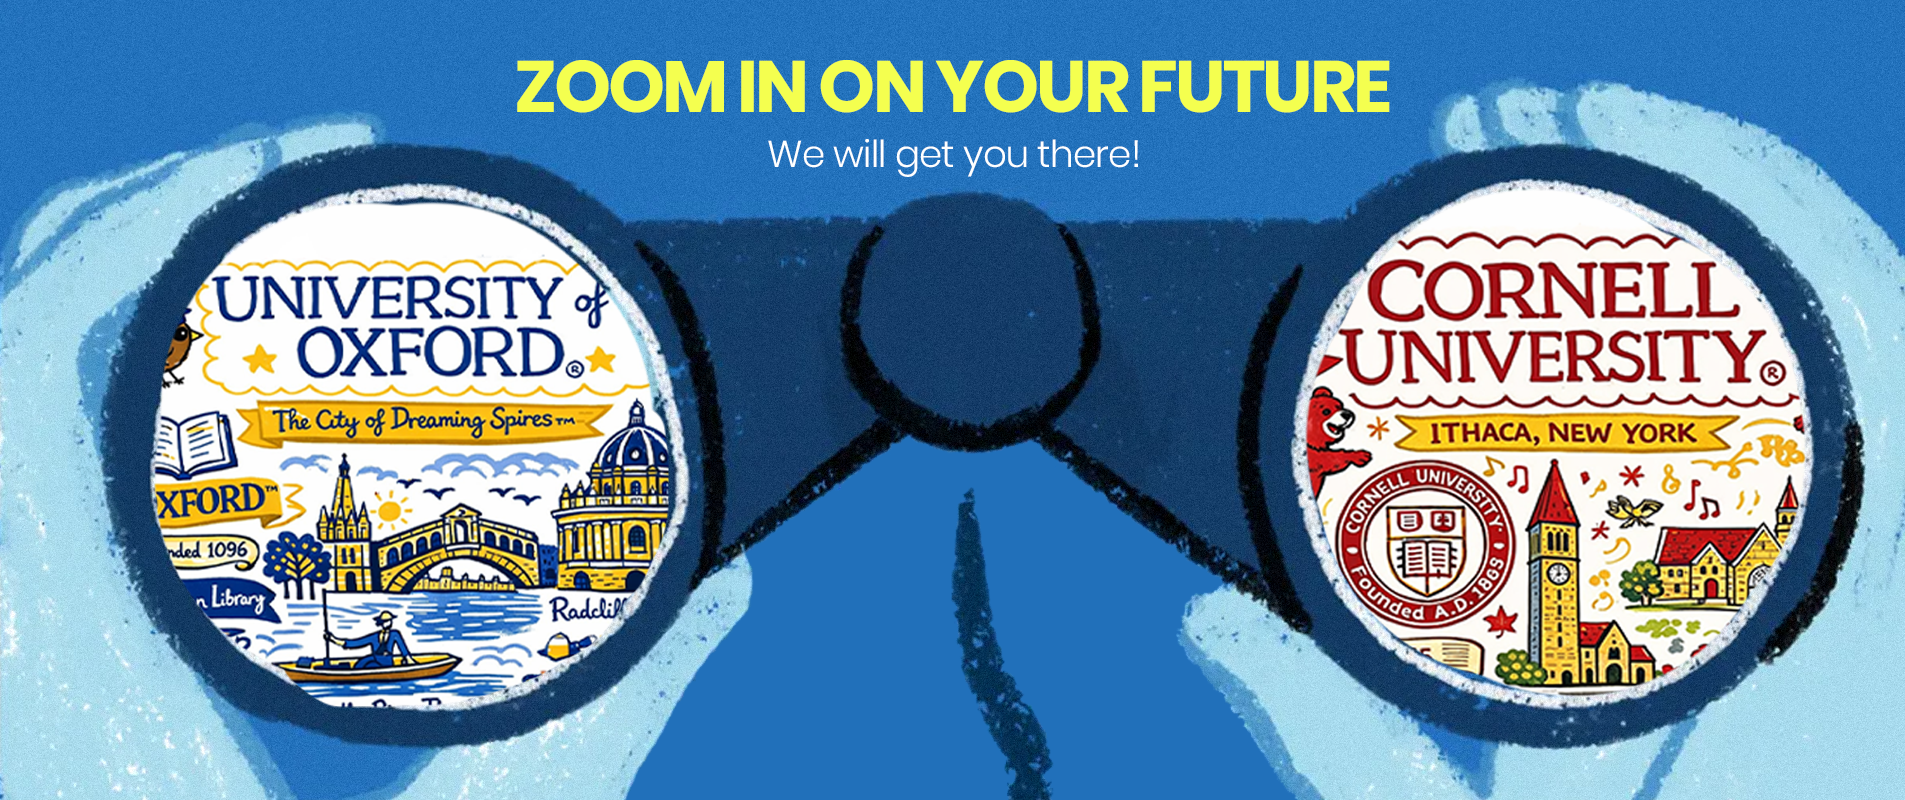
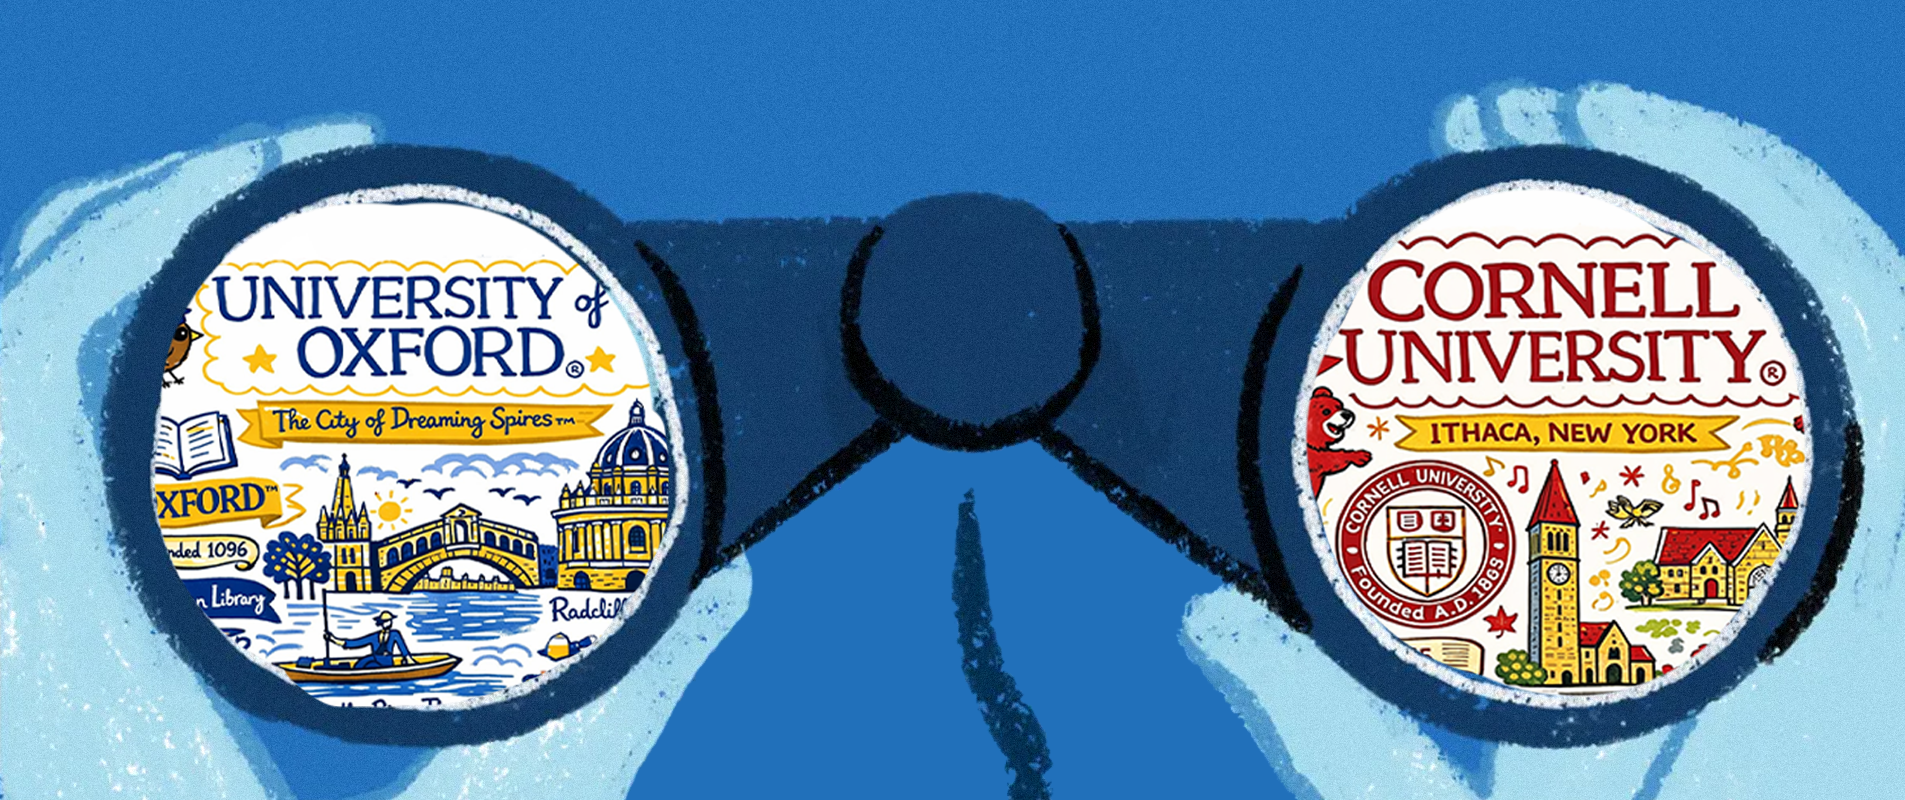
added case study first image

Changed region(s): [[0.2478, 0.0625, 0.7433, 0.2188]]

diff --git a/components/service/case-studies/HeroSection.tsx b/components/service/case-studies/HeroSection.tsx
@@ -5,25 +5,32 @@ const HeroSection = () => {
         <div
             className="
                 relative
-                pb-24
-                md:pb-0
-                bg-[#041938]
+                w-full
+                h-[calc(100vh-80px)]
+                sm:h-[calc(100vh-80px)]
+                md:h-[calc(100vh-96px)]
                 mt-20
                 md:mt-24
-                min-h-[700px]
-                sm:min-h-[750px]
-                md:min-h-[800px]
                 flex flex-col
                 items-center
                 overflow-hidden
                 bg-[url('/case-study-sm.png')]
-                lg:bg-[url('/case-study-md.png')]
-                2xl:bg-[url('/case-study-lg.png')]
+                md:bg-[url('/case-study-md.png')]
+                lg:bg-[url('/case-study-lg.png')]
                 bg-center
                 bg-cover
+                bg-no-repeat
             "
         >
-            {/* <div className='bg-[#]' /> */}
+            {/* Text Content */}
+            <div className="flex flex-col items-center text-center px-4 pt-4">
+                <h1 className="text-4xl sm:text-5xl md:text-6xl lg:text-7xl font-black italic text-[#E5FF00] leading-tight tracking-tight">
+                    ZOOM IN ON YOUR FUTURE
+                </h1>
+                <p className="text-white text-xl sm:text-2xl md:text-3xl italic mt-2 sm:mt-4">
+                    We will get you there!
+                </p>
+            </div>
         </div>
     );
 };

diff --git a/components/service/case-studies/caseStudies.ts b/components/service/case-studies/caseStudies.ts
@@ -15,10 +15,10 @@ export interface CaseStudy {
 export const caseStudies: CaseStudy[] = [
     // 1 — LENA
     {
-        slug: "Lorem",
-        title: "Lorem's Case",
+        slug: "Faiz",
+        title: "Faiz Iqbal's Case",
         subtitle: "READ FULL CASE STUDY",
-        image: "/dummy.png",
+        image: "/faiz.jpeg",
         intro:
             "Lorem ipsum dolor sit amet, consectetur adipiscing elit. Sed vitae varius libero, non iaculis leo.",
 
